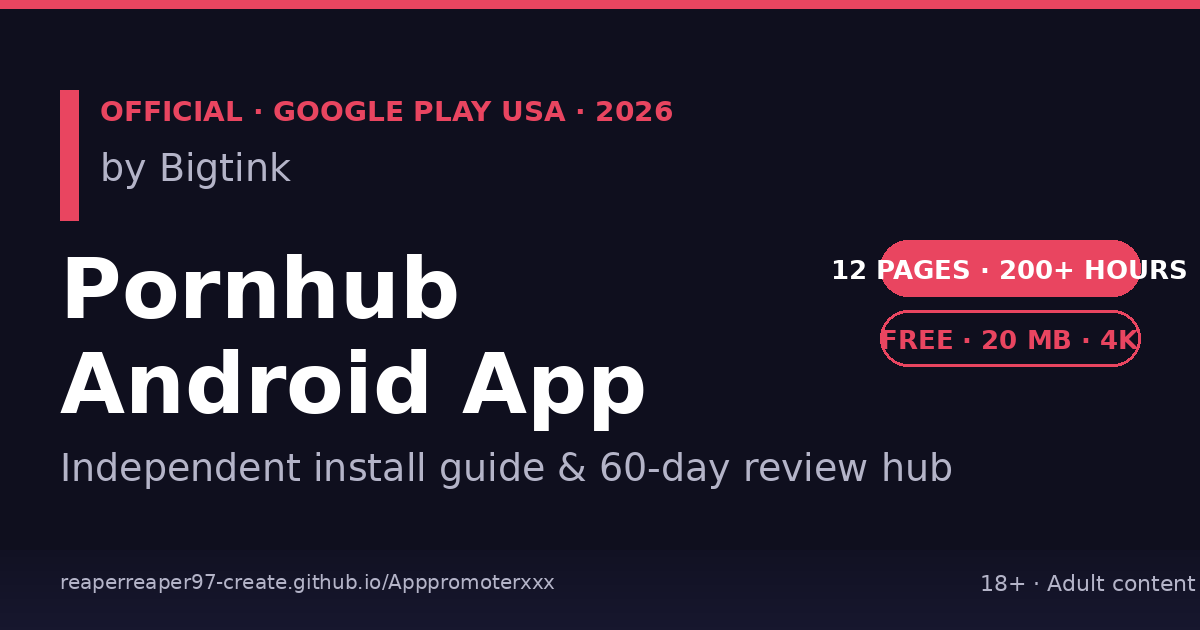
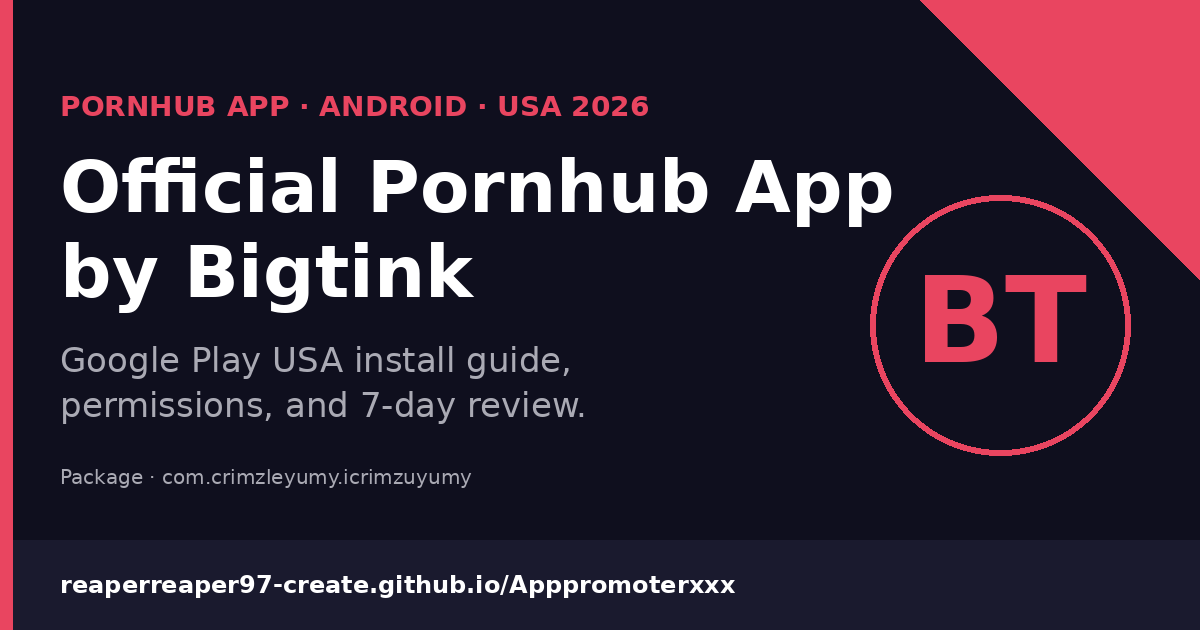
SEO: FAQPage+HowTo Schema + brand og-image (1200x630)
- _layouts/default.html: add FAQPage + HowTo JSON-LD blocks (opt-in via page frontmatter)
- _posts/install-pornhub-app-android.md: add howto: (7 steps, supply, tool, totalTime PT2M) + faq: (5 Q/A)
- _posts/pornhub-app-by-bigtink-official.md: add faq: (5 Q/A, mirrors body FAQ section)
- assets/images/og-image.png: regenerate 1200x630 (51 KB) in brand palette
  (dark navy #0f0f1e, accent red #e94560, BT monogram badge)

Changed region(s): [[0.0, 0.0, 1.0, 1.0], [0.3083, 0.2413, 0.74, 0.3619], [0.8017, 0.9048, 1.0, 0.9349]]

diff --git a/_layouts/default.html b/_layouts/default.html
@@ -113,6 +113,63 @@
   }
   </script>
   {% endunless %}
+
+  {% comment %} Per-page FAQPage Schema (opt-in via frontmatter) {% endcomment %}
+  {% if page.faq %}
+  <script type="application/ld+json">
+  {
+    "@context": "https://schema.org",
+    "@type": "FAQPage",
+    "mainEntity": [
+      {% for item in page.faq %}
+      {
+        "@type": "Question",
+        "name": {{ item.q | jsonify }},
+        "acceptedAnswer": {
+          "@type": "Answer",
+          "text": {{ item.a | jsonify }}
+        }
+      }{% unless forloop.last %},{% endunless %}
+      {% endfor %}
+    ]
+  }
+  </script>
+  {% endif %}
+
+  {% comment %} Per-page HowTo Schema (opt-in via frontmatter) {% endcomment %}
+  {% if page.howto %}
+  <script type="application/ld+json">
+  {
+    "@context": "https://schema.org",
+    "@type": "HowTo",
+    "name": {{ page.howto.name | jsonify }},
+    "description": {{ page.howto.description | jsonify }},
+    {% if page.howto.totalTime %}"totalTime": {{ page.howto.totalTime | jsonify }},{% endif %}
+    {% if page.howto.estimatedCost %}"estimatedCost": {
+      "@type": "MonetaryAmount",
+      "currency": "USD",
+      "value": {{ page.howto.estimatedCost | jsonify }}
+    },{% endif %}
+    {% if page.howto.supply %}"supply": [
+      {% for s in page.howto.supply %}{"@type": "HowToSupply", "name": {{ s | jsonify }}}{% unless forloop.last %},{% endunless %}{% endfor %}
+    ],{% endif %}
+    {% if page.howto.tool %}"tool": [
+      {% for t in page.howto.tool %}{"@type": "HowToTool", "name": {{ t | jsonify }}}{% unless forloop.last %},{% endunless %}{% endfor %}
+    ],{% endif %}
+    "step": [
+      {% for step in page.howto.steps %}
+      {
+        "@type": "HowToStep",
+        "position": {{ forloop.index }},
+        "name": {{ step.name | jsonify }},
+        "text": {{ step.text | jsonify }},
+        "url": "{{ page.url | absolute_url }}#step-{{ forloop.index }}"
+      }{% unless forloop.last %},{% endunless %}
+      {% endfor %}
+    ]
+  }
+  </script>
+  {% endif %}
 </head>
 <body>
   <nav style="padding:15px;background:#1a1a2e;margin-bottom:20px;">

diff --git a/_posts/2026-06-15-install-pornhub-app-android.md b/_posts/2026-06-15-install-pornhub-app-android.md
@@ -6,6 +6,44 @@ date: 2026-06-15
 permalink: /install-pornhub-app-android/
 canonical_url: https://reaperreaper97-create.github.io/Apppromoterxxx/install-pornhub-app-android/
 keywords: "pornhub app install, pornhub android install, pornhub app google play, pornhub by bigtink, install pornhub usa, pornhub apk alternative"
+howto:
+  name: "How to Install the Pornhub App on Android (USA, 2026)"
+  description: "Install the official Pornhub Android app by Bigtink from Google Play USA in about 2 minutes. No APK sideloading required."
+  totalTime: "PT2M"
+  estimatedCost: "0"
+  supply:
+    - "Android 9.0 or newer phone or tablet"
+    - "Google account"
+    - "About 20 MB free storage"
+    - "Stable internet connection (Wi-Fi or 5G)"
+  tool:
+    - "Google Play Store"
+  steps:
+    - name: "Open the Google Play Store"
+      text: "Tap the Play Store icon on your home screen or app drawer. If the Play Store is not installed, your device runs a non-Google build of Android and this walkthrough does not apply."
+    - name: "Search for Pornhub or Pornhub by Bigtink"
+      text: "In the Play Store search bar, type Pornhub or Pornhub by Bigtink. Tap the listing titled Pornhub by Bigtink. The package id is com.crimzleyumy.icrimzuyumy."
+    - name: "Tap Install"
+      text: "The Install button is in the top-right of the listing. Download takes 10-30 seconds on a typical US connection. The permissions preview should list only Internet, network state, and optional storage. Back out if anything else is requested."
+    - name: "Tap Open"
+      text: "Once the install finishes, the Install button changes to Open. Tap to launch the Pornhub app for the first time."
+    - name: "Accept the content notice"
+      text: "The first launch shows a brief 18+ content notice and terms of service. Tap through it. No account creation is required — the app can be used anonymously."
+    - name: "Browse by category or search"
+      text: "The home screen shows Trending, Categories, Search bar, and Watch history. Tap any thumbnail to start playback. First video buffers in 2-3 seconds, subsequent videos start almost instantly."
+    - name: "Set up offline mode (optional)"
+      text: "Tap the download icon on any video thumbnail, choose a quality, wait for the download to complete, then access downloaded videos from the Downloads tab in the side menu. Downloads are stored in the app's private storage."
+faq:
+  - q: "What Android version do I need to install the Pornhub app by Bigtink?"
+    a: "Android 9.0 (Pie) or newer. Check Settings → About phone → Android version."
+  - q: "Do I need to enable Unknown Sources or sideload an APK?"
+    a: "No. The official Pornhub app by Bigtink is published on Google Play USA, so it installs through the standard Play Store flow with no Unknown Sources toggle required."
+  - q: "Is the install free?"
+    a: "Yes. Free install, no subscription, no premium tier, no in-app purchases."
+  - q: "Do I need to create an account to use the app?"
+    a: "No. The app can be used anonymously. There is no signup step on first launch."
+  - q: "What if the install fails or the listing does not appear?"
+    a: "Most common reasons: device runs Android older than 9.0, insufficient storage (free up 100 MB), Play Store out of date (let it update itself first), or region restriction (the app is live in the US Play Store as of 2026)."
 ---
 
 # How to Install the Pornhub App on Android in 2026 (Step by Step, USA)

diff --git a/_posts/2026-06-16-pornhub-app-by-bigtink-official.md b/_posts/2026-06-16-pornhub-app-by-bigtink-official.md
@@ -6,6 +6,17 @@ keywords: "pornhub by bigtink, bigtink android app, official pornhub app develop
 date: 2026-06-16 16:00:00 +0000
 permalink: /pornhub-app-by-bigtink-official/
 canonical_url: https://reaperreaper97-create.github.io/Apppromoterxxx/pornhub-app-by-bigtink-official/
+faq:
+  - q: "Is Bigtink a legit Play Store developer?"
+    a: "Yes. Bigtink is an established Google Play developer account with a verified contact email, a published privacy policy, and a continuous update history on the Pornhub app's package. The account has cleared Play Store policy review for an adult-content app, which is a stricter review path than general-audience apps."
+  - q: "Why is the package called crimzleyumy if the app is Pornhub?"
+    a: "The app was originally published as Crimzle Yumy: Candy Creator. When Bigtink rebranded the slot to Pornhub in 2026, the visible name, icon, and description all changed, but Google Play locks the package id to the original product for technical reasons. Changing it would have created a separate app and erased install history."
+  - q: "Did the app actually change after the rebrand or just the name?"
+    a: "The app changed. The Pornhub release is a different product from Crimzle Yumy in terms of content, UI, and category. The package id is the only piece that carried over from the older listing."
+  - q: "Is this really the official Pornhub app or a clone?"
+    a: "On Google Play USA, the listing published by Bigtink under this package id is the official adult app marketed as Pornhub. Clones tend to live on third-party APK sites with different package ids and unverified developer names."
+  - q: "How do I report a fake Pornhub app on the Play Store?"
+    a: "Open the suspect Play Store listing, scroll to the bottom, tap Flag as inappropriate, and pick the category that fits (copycat, harmful, or misleading). Google's review team handles takedowns within a few days for clear cases."
 ---
 
 If you've searched the Play Store in the US for the Pornhub app and ended up squinting at the developer name underneath the icon, you're not alone. The publisher line reads **Bigtink**, the package id reads `com.crimzleyumy.icrimzuyumy`, and Google's search snippet sometimes still shows a description about candy. None of that is a scam — it's just what a rebrand looks like before all the caches catch up. Here's the full picture on who Bigtink is, what the app actually is today, and how to make sure the one you tap install on is the real one.
